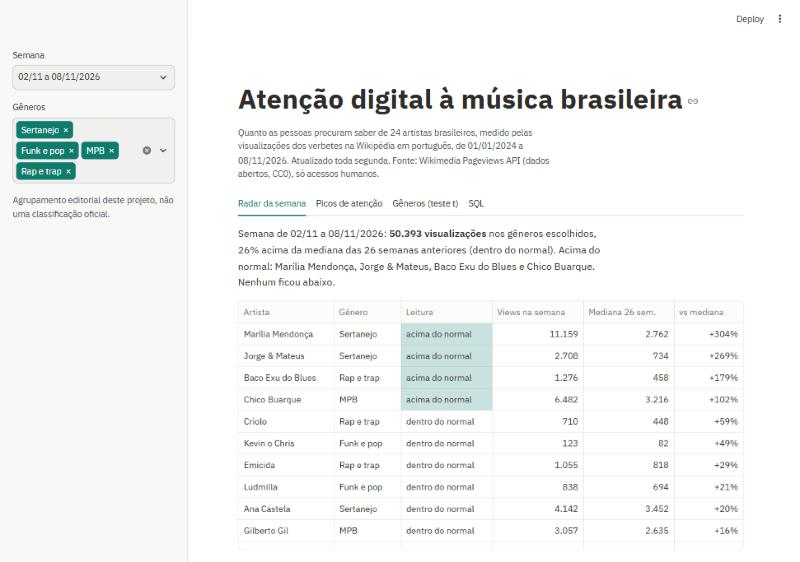
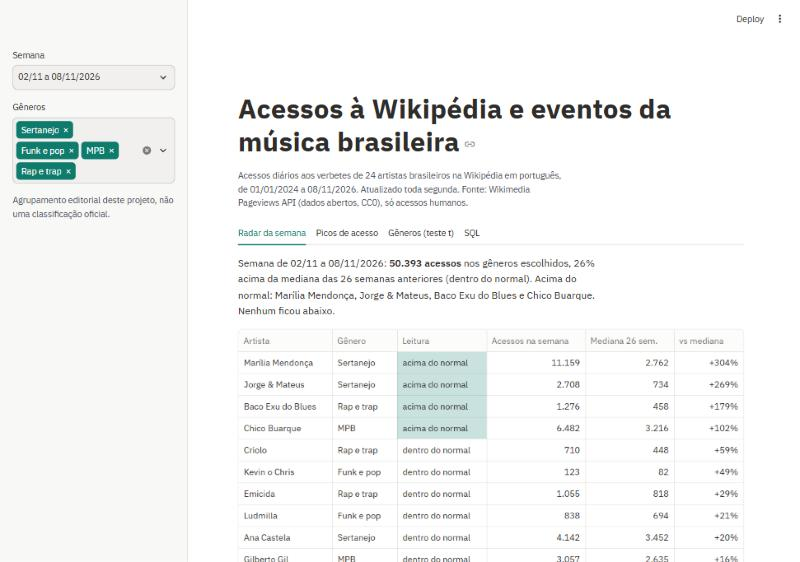
Nome e narrativa coerentes com os dados: acessos a verbetes da Wikipédia
- Título: Acessos à Wikipédia e eventos da música brasileira
- Problema reescrito para leitor externo, sem contexto de redes sociais
- Uma métrica, um nome: acessos (no README e no app)

Changed region(s): [[0.2812, 0.1512, 0.9375, 1.0]]

diff --git a/app.py b/app.py
@@ -1,4 +1,4 @@
-"""Dashboard: atenção digital à música brasileira (pageviews da Wikipédia)."""
+"""Painel: acessos à Wikipédia e eventos da música brasileira (pageviews da Wikimedia)."""
 import sqlite3
 
 import numpy as np
@@ -10,7 +10,7 @@ import streamlit.components.v1 as components
 
 import analise as an
 
-st.set_page_config(page_title="Atenção à música brasileira", page_icon=":material/graphic_eq:", layout="wide")
+st.set_page_config(page_title="Acessos à Wikipédia · música brasileira", page_icon=":material/graphic_eq:", layout="wide")
 
 # Legendas e links com contraste de leitura (o cinza padrão fica abaixo de 4,5:1) e texto
 # corrido com no máximo ~75 caracteres por linha. Tabelas e gráficos não são afetados.
@@ -68,10 +68,10 @@ def rotulo_semana(s):
     return f"{ini:%d/%m} a {ini + pd.Timedelta(days=6):%d/%m/%Y}"
 
 
-st.title("Atenção digital à música brasileira")
+st.title("Acessos à Wikipédia e eventos da música brasileira")
 st.caption(
-    f"Quanto as pessoas procuram saber de {semanal['artista'].nunique()} artistas brasileiros, medido pelas visualizações dos "
-    f"verbetes na Wikipédia em português, de {diario['data'].min():%d/%m/%Y} a "
+    f"Acessos diários aos verbetes de {semanal['artista'].nunique()} artistas brasileiros na Wikipédia "
+    f"em português, de {diario['data'].min():%d/%m/%Y} a "
     f"{diario['data'].max():%d/%m/%Y}. Atualizado toda segunda. Fonte: Wikimedia Pageviews API "
     "(dados abertos, CC0), só acessos humanos.")
 
@@ -88,7 +88,7 @@ sem = semanal[semanal["genero"].isin(generos)]
 radar = an.radar_semana(sem, semana)
 fim_semana = pd.to_datetime(semana) + pd.Timedelta(days=6)
 
-aba1, aba2, aba3, aba4 = st.tabs(["Radar da semana", "Picos de atenção", "Gêneros (teste t)", "SQL"])
+aba1, aba2, aba3, aba4 = st.tabs(["Radar da semana", "Picos de acesso", "Gêneros (teste t)", "SQL"])
 
 # --- Radar --------------------------------------------------------------------
 with aba1:
@@ -102,7 +102,7 @@ with aba1:
         acima = radar[radar["status"] == "acima do normal"].sort_values("vs_mediana_pct", ascending=False)
         abaixo = radar[radar["status"] == "abaixo do normal"].sort_values("vs_mediana_pct")
         frases = [f"Semana de {pd.to_datetime(semana):%d/%m} a {fim_semana:%d/%m/%Y}: "
-                  f"**{br(total)} visualizações** nos gêneros escolhidos"]
+                  f"**{br(total)} acessos** nos gêneros escolhidos"]
         if bt:
             frases[0] += (f", {br(abs(bt['vs_mediana_pct']))}% {'acima' if bt['vs_mediana_pct'] >= 0 else 'abaixo'} "
                           f"da mediana das 26 semanas anteriores ({bt['status']}).")
@@ -121,7 +121,7 @@ with aba1:
             hide_index=True, width="stretch",
             column_config={
                 "artista": "Artista", "genero": "Gênero", "status": "Leitura",
-                "valor": st.column_config.NumberColumn("Views na semana", format=NUM),
+                "valor": st.column_config.NumberColumn("Acessos na semana", format=NUM),
                 "mediana": st.column_config.NumberColumn("Mediana 26 sem.", format=NUM),
                 "vs_mediana_pct": st.column_config.NumberColumn("vs mediana", format="%+.0f%%"),
             })
@@ -138,7 +138,7 @@ with aba1:
                        fillcolor="rgba(128,128,128,.22)", name="Faixa usual (Q1 a Q3)", hoverinfo="skip"),
             go.Scatter(x=g["semana"], y=g["lim_sup"], line=dict(dash="dot", color="gray", width=1),
                        name="Limite do normal", hovertemplate="%{y:,.0f}<extra>Limite</extra>"),
-            go.Scatter(x=g["semana"], y=g["views"], line=dict(color=cor, width=2), name="Views na semana",
+            go.Scatter(x=g["semana"], y=g["views"], line=dict(color=cor, width=2), name="Acessos na semana",
                        hovertemplate="%{x|%d/%m/%Y}: %{y:,.0f}<extra></extra>"),
         ])
         fig.add_vline(x=semana, line_color="gray", line_width=1, line_dash="dash")
@@ -154,7 +154,7 @@ with aba2:
         maior = pk.iloc[0]
         na_semana = pk[(pk["data"] >= pd.to_datetime(semana)) & (pk["data"] <= fim_semana)]
         resumo = (f"Maior salto do período: **{maior['artista']}** em {maior['data']:%d/%m/%Y}, "
-                  f"com {br(maior['vezes_base'], 1)} vezes as visualizações de um dia típico. ")
+                  f"com {br(maior['vezes_base'], 1)} vezes os acessos de um dia típico. ")
         if len(na_semana):
             dias = na_semana.sort_values("data")
             resumo += (f"Na semana de {rotulo_semana(semana)}: "
@@ -165,7 +165,7 @@ with aba2:
         st.markdown(resumo)
         with st.expander("Como calculei"):
             st.markdown(
-                "Um pico é um dia em que o artista teve muito mais visualizações que o próprio padrão "
+                "Um pico é um dia em que o artista teve muito mais acessos que o próprio padrão "
                 "dos 90 dias anteriores. A régua é a mediana desses dias, e a distância é medida pelo "
                 "desvio absoluto mediano (MAD), em escala logarítmica, com corte em 3,5. Mediana e MAD "
                 "não se deixam distorcer por um único dia viral, como média e desvio padrão se deixariam.")
@@ -176,12 +176,12 @@ with aba2:
             column_config={
                 "data": st.column_config.DateColumn("Dia", format="DD/MM/YYYY"),
                 "artista": "Artista", "genero": "Gênero",
-                "views": st.column_config.NumberColumn("Views no dia", format=NUM),
+                "views": st.column_config.NumberColumn("Acessos no dia", format=NUM),
                 "base": st.column_config.NumberColumn("Dia típico", format=NUM, help="Mediana dos 90 dias anteriores"),
                 "vezes_base": st.column_config.NumberColumn("Vezes o dia típico", format=NUM),
             })
         st.caption(f"{br(len(pk))} dias atípicos no período, somando os artistas filtrados. O dado mostra "
-                   "quando a atenção saltou; o porquê (lançamento, show, notícia) pede checagem em notícias.")
+                   "quando os acessos saltaram; o porquê (lançamento, show, notícia) pede checagem em notícias.")
         fig = px.scatter(pk, x="data", y="vezes_base", color="genero", hover_name="artista", log_y=True,
                          color_discrete_map=CORES, category_orders={"genero": list(CORES)},
                          labels={"data": "", "vezes_base": "Vezes o dia típico (log)", "genero": "Gênero"},
@@ -194,7 +194,7 @@ with aba2:
 
 # --- Welch --------------------------------------------------------------------
 with aba3:
-    st.markdown("Um gênero atrai mais atenção que outro, ou a diferença cabe no acaso?")
+    st.markdown("Os artistas de um gênero têm mais acessos que os de outro, ou a diferença cabe no acaso?")
     r = None
     if len(generos) < 2:
         st.info("Para comparar, deixe ao menos dois gêneros marcados na barra lateral.")
@@ -212,14 +212,14 @@ with aba3:
         veredito = ("A diferença é estatisticamente significante (p < 0,05)." if r["significante"]
                     else "Com essa amostra, não dá para afirmar que a diferença não é acaso (p ≥ 0,05).")
         st.markdown(
-            f"Na média geométrica, um artista de **{mais}** teve **{br(razao, 1)} vezes** as visualizações "
+            f"Na média geométrica, um artista de **{mais}** teve **{br(razao, 1)} vezes** os acessos "
             f"semanais de um artista de **{menos}** nas últimas {r['semanas']} semanas. {veredito}")
         st.caption(f"Base: {r['n_a']} artistas de {ga} e {r['n_b']} de {gb}. Com grupos tão pequenos, o "
                    "teste só enxerga diferenças grandes: quando ele não acha diferença, quer dizer \"não "
                    "deu para ver\", não \"são iguais\".")
         with st.expander("Como calculei"):
             st.markdown(
-                "Cada artista vira um ponto: a média do log das visualizações semanais na janela "
+                "Cada artista vira um ponto: a média do log dos acessos semanais na janela "
                 "escolhida. Assim, 12 semanas do mesmo artista não contam como 12 casos independentes. "
                 "O teste t de Welch compara os dois grupos sem supor que eles variem do mesmo jeito.\n\n"
                 f"p-valor **{br(r['p'], 3)}** (abaixo de 0,05, a diferença dificilmente é acaso) · "
@@ -232,7 +232,7 @@ with aba3:
                .assign(views=lambda d: 10 ** d["log"]))
         fig = px.box(pts, x="genero", y="views", color="genero", points="all", hover_name="artista",
                      log_y=True, color_discrete_map=CORES, category_orders={"genero": [ga, gb]},
-                     labels={"genero": "", "views": "Views semanais (média geométrica, log)"},
+                     labels={"genero": "", "views": "Acessos semanais (média geométrica, log)"},
                      hover_data={"genero": False, "views": ":,.0f"})
         fig.update_layout(showlegend=False, separators=",.")
         grafico(fig)

diff --git a/README.md b/README.md
@@ -1,6 +1,6 @@
-# Atenção digital à música brasileira
+# Acessos à Wikipédia e eventos da música brasileira
 
-Painel que acompanha, semana a semana, quanto as pessoas procuram saber de 24 artistas brasileiros, medido pelas visualizações dos verbetes deles na Wikipédia em português.
+Projeto de portfólio feito para demonstrar, com dados públicos, o ciclo completo de uma análise: coleta por API, banco SQLite consultado em SQL, análise estatística em Python e painel publicado em Streamlit. O tema é como acontecimentos do mundo real (um aniversário, a data de uma morte) aparecem nos acessos aos verbetes de 24 artistas brasileiros na Wikipédia em português.
 
 **App no ar:** https://atencao-musica-brasileira.streamlit.app
 
@@ -8,18 +8,20 @@ Painel que acompanha, semana a semana, quanto as pessoas procuram saber de 24 ar
 
 ## Problema
 
-Num relatório semanal de redes sociais, uma pergunta sempre volta: "esse número é bom?". Uma alta pode ser oscilação comum ou um sinal real. Este projeto responde três perguntas com critério estatístico explícito:
+Os acessos diários a um verbete sobem e descem o tempo todo. Quando algo acontece com um artista, mais gente abre a página dele, e o evento fica registrado nos dados. Só que esse registro vem misturado à oscilação comum, e olhar o gráfico não basta para separar uma coisa da outra.
 
-1. **A semana de cada artista ficou dentro do normal?** Comparação com o histórico do próprio artista, não com uma meta arbitrária.
-2. **Quais dias fugiram do padrão?** Picos de atenção que merecem investigação.
-3. **Um gênero atrai mais atenção que outro, ou a diferença cabe no acaso?** Teste de hipótese com o tamanho da amostra à vista.
+O projeto responde três perguntas com critério estatístico explícito:
+
+1. **A semana de um artista fugiu do padrão dele?** Cada semana é comparada com as 26 anteriores do próprio artista.
+2. **Em que dias os acessos saltaram?** O painel lista os dias atípicos, que são os candidatos a evento.
+3. **Os artistas de um gênero têm mais acessos que os de outro, ou a diferença cabe no acaso?** Um teste de hipótese responde, com o tamanho da amostra à vista.
 
 ## Dados
 
 - **Fonte:** [Wikimedia Pageviews API](https://doc.wikimedia.org/generated-data-platform/aqs/analytics-api/), dados abertos sob licença CC0, sem chave de acesso.
-- **Recorte:** visualizações diárias de 24 verbetes da Wikipédia em português, de 01/01/2024 até o último domingo antes da coleta. Só acessos humanos (`agent=user`); robôs ficam de fora.
+- **Recorte:** acessos diários a 24 verbetes da Wikipédia em português, de 01/01/2024 até o último domingo antes da coleta. Só acessos humanos (`agent=user`); robôs ficam de fora.
 - **Artistas e gêneros:** 6 artistas por gênero (Sertanejo, Funk e pop, MPB, Rap e trap), listados em [`artistas.csv`](artistas.csv). O agrupamento é editorial, feito para este projeto.
-- **Limite:** visualização de verbete mede interesse (gente procurando saber do artista), não audiência nem streams.
+- **Limite:** o dado conta quantas vezes cada verbete foi aberto. Não mede audiência, streams nem atividade em redes sociais.
 
 ## Método
 
@@ -30,7 +32,7 @@ Num relatório semanal de redes sociais, uma pergunta sempre volta: "esse númer
 | Consulta | [`analise.py`](analise.py) | A agregação semanal sai de SQL (semana de segunda a domingo). O app tem uma aba para rodar consultas próprias, com o banco aberto só para leitura. |
 | Faixa de normalidade | `faixa_normal()` | Mediana e intervalo interquartil (IQR) das 26 semanas anteriores. Acima de Q3 + 1,5 × IQR é "acima do normal", o critério do boxplot. Com menos de 8 semanas de histórico, não julga. |
 | Picos | `picos()` | z-score robusto em escala log: mediana e MAD dos 90 dias anteriores, corte em 3,5. Mediana e MAD não se deixam distorcer por um único dia viral, como aconteceria com média e desvio padrão. |
-| Comparação de gêneros | `welch()` | Teste t de Welch sobre a média do log das views semanais **por artista**. Cada artista é uma observação, para não contar 12 semanas do mesmo artista como 12 casos independentes. Welch porque não supõe variâncias iguais. Mostra p-valor, tamanho do efeito (d de Cohen) e n. |
+| Comparação de gêneros | `welch()` | Teste t de Welch sobre a média do log dos acessos semanais **por artista**. Cada artista é uma observação, para não contar 12 semanas do mesmo artista como 12 casos independentes. Welch porque não supõe variâncias iguais. Mostra p-valor, tamanho do efeito (d de Cohen) e n. |
 | Atualização | [`coleta.yml`](.github/workflows/coleta.yml) | Toda segunda às 6h (Brasília), o GitHub Actions coleta a semana que fechou no domingo, roda os testes e só então grava o banco. O Streamlit Cloud republica o app a cada gravação. |
 | Testes | [`tests/`](tests) | `pytest` com dados sintéticos: a faixa classifica certo, o pico plantado é achado, o teste respeita a amostra mínima, toda semana do SQL começa na segunda, e o app abre sem erro com um gênero ou com todos. |
 
@@ -38,8 +40,8 @@ Num relatório semanal de redes sociais, uma pergunta sempre volta: "esse númer
 
 Leituras da coleta de 13/11/2026. O painel recalcula tudo toda segunda, com a coleta automática, e os números abaixo ficam como registro dessa data.
 
-- **Picos explicáveis:** o maior pico de Chico Buarque foi em 19/06/2024, dia em que ele fez 80 anos: 10.961 visualizações contra 592 num dia típico, 18,5 vezes mais. Na semana de 02/11/2026, a de Marília Mendonça somou 11.159 visualizações, 304% acima da mediana de 26 semanas, na semana em que se completaram cinco anos da morte dela (05/11/2021). O método aponta *quando* a atenção saltou; o *porquê* sai da checagem em notícias.
-- **Gêneros:** nas últimas 12 semanas, um artista de MPB teve, em média geométrica, 4,9 vezes as visualizações semanais de um artista de Funk e pop (Welch, p = 0,020, d = 1,85, n = 6 por grupo). Funk e pop contra Rap e trap não teve diferença detectável (p = 0,51). Com 6 artistas por grupo, p alto quer dizer "não deu para ver", não "são iguais".
+- **Picos explicáveis:** o maior pico de Chico Buarque foi em 19/06/2024, dia em que ele fez 80 anos: 10.961 acessos contra 592 num dia típico, 18,5 vezes mais. Na semana de 02/11/2026, a de Marília Mendonça somou 11.159 acessos, 304% acima da mediana de 26 semanas, na semana em que se completaram cinco anos da morte dela (05/11/2021). O método aponta *quando* os acessos saltaram; o *porquê* sai da checagem em notícias.
+- **Gêneros:** nas últimas 12 semanas, um artista de MPB teve, em média geométrica, 4,9 vezes os acessos semanais de um artista de Funk e pop (Welch, p = 0,020, d = 1,85, n = 6 por grupo). Funk e pop contra Rap e trap não teve diferença detectável (p = 0,51). Com 6 artistas por grupo, p alto quer dizer "não deu para ver", não "são iguais".
 
 ![Série semanal com faixa de normalidade](docs/serie.jpg)
 
@@ -59,7 +61,7 @@ python -m pytest tests -q
 ## Próximos passos
 
 - Cruzar os picos com datas de lançamento e notícias para classificar a causa.
-- Somar uma segunda fonte de atenção, como seguidores em plataformas de streaming.
+- Somar uma segunda fonte de dados, como seguidores em plataformas de streaming, para ver se os eventos aparecem nas duas.
 
 ---
 
